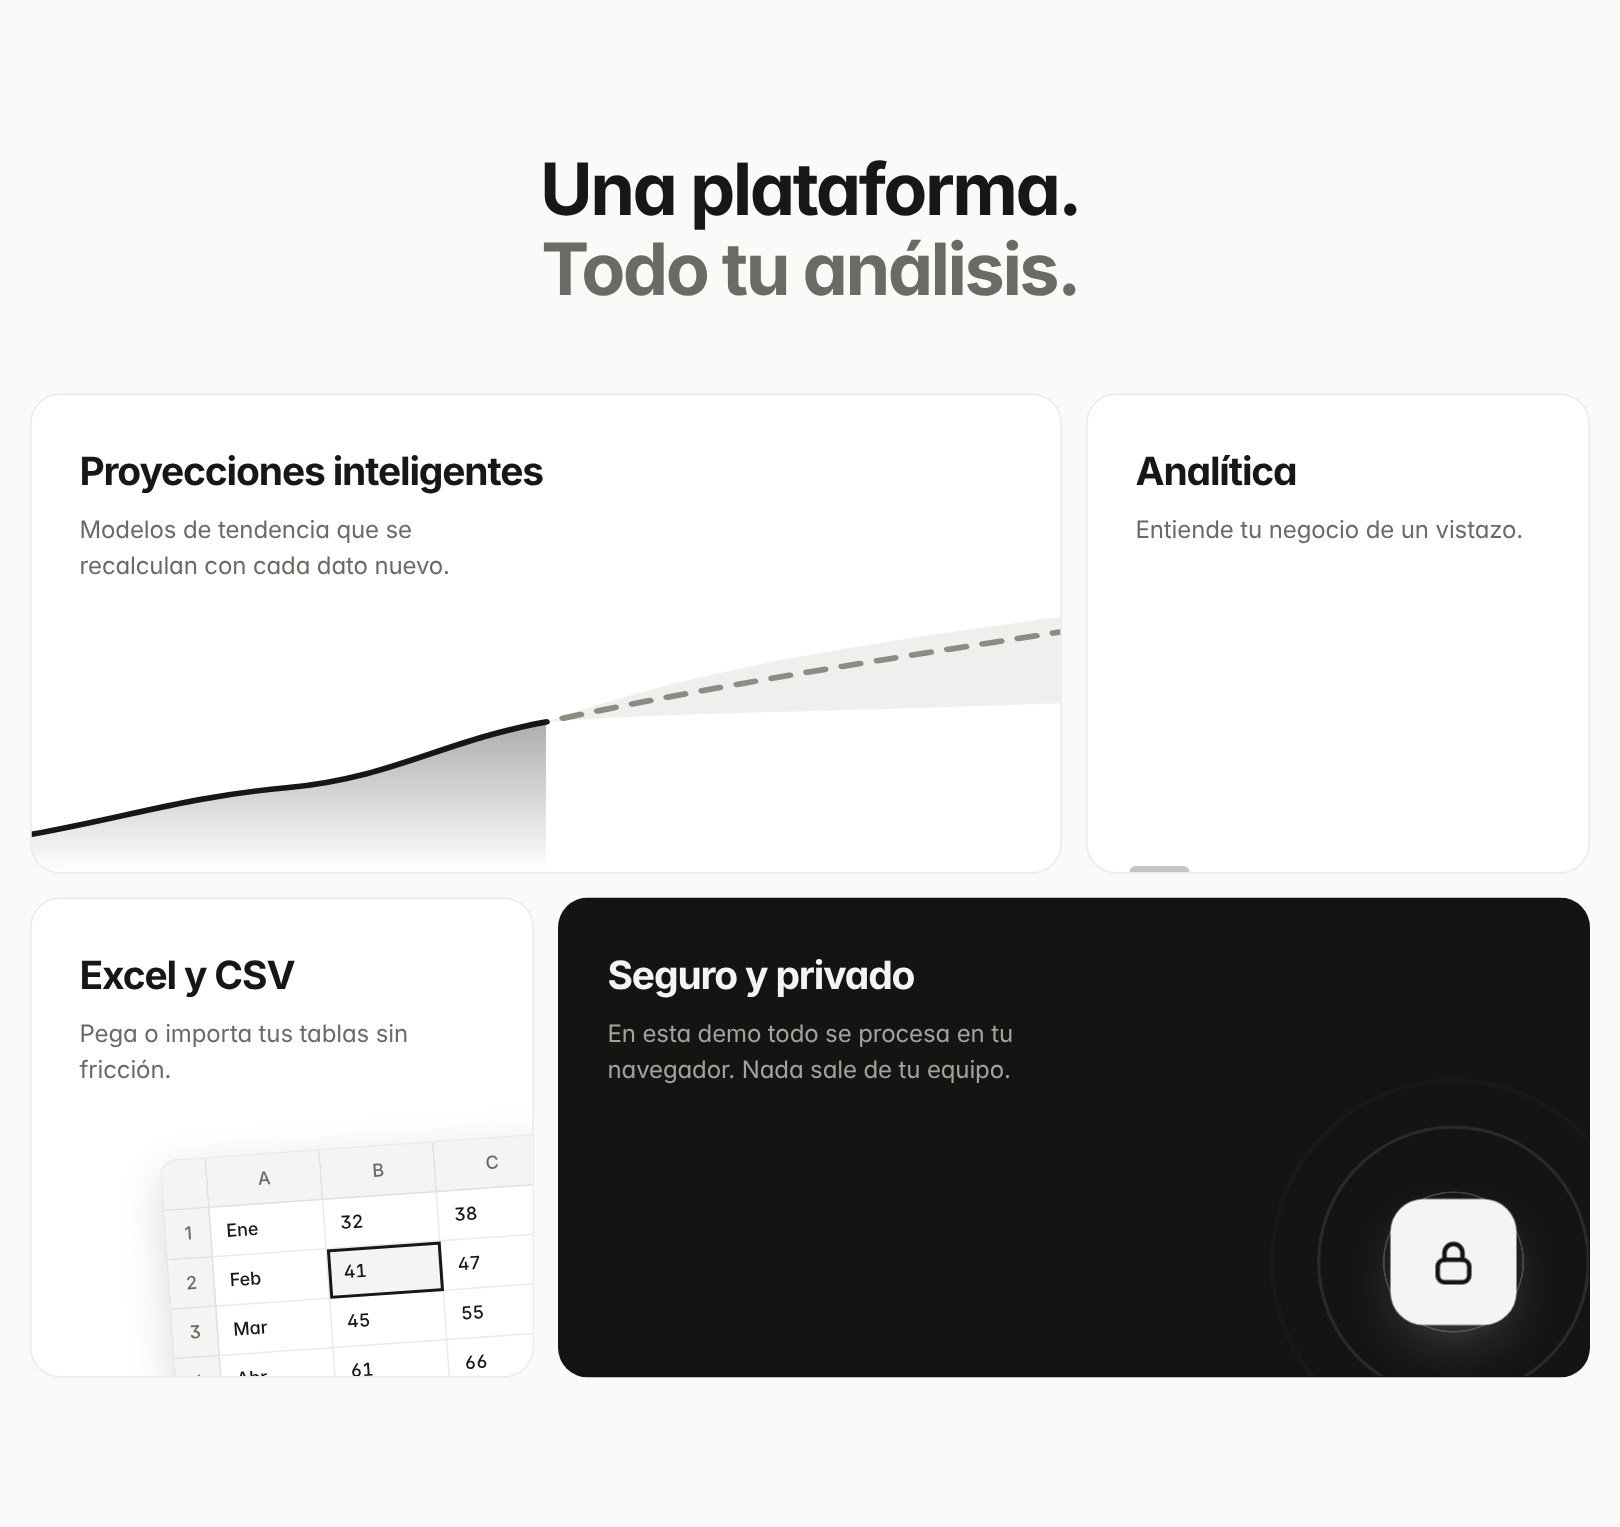
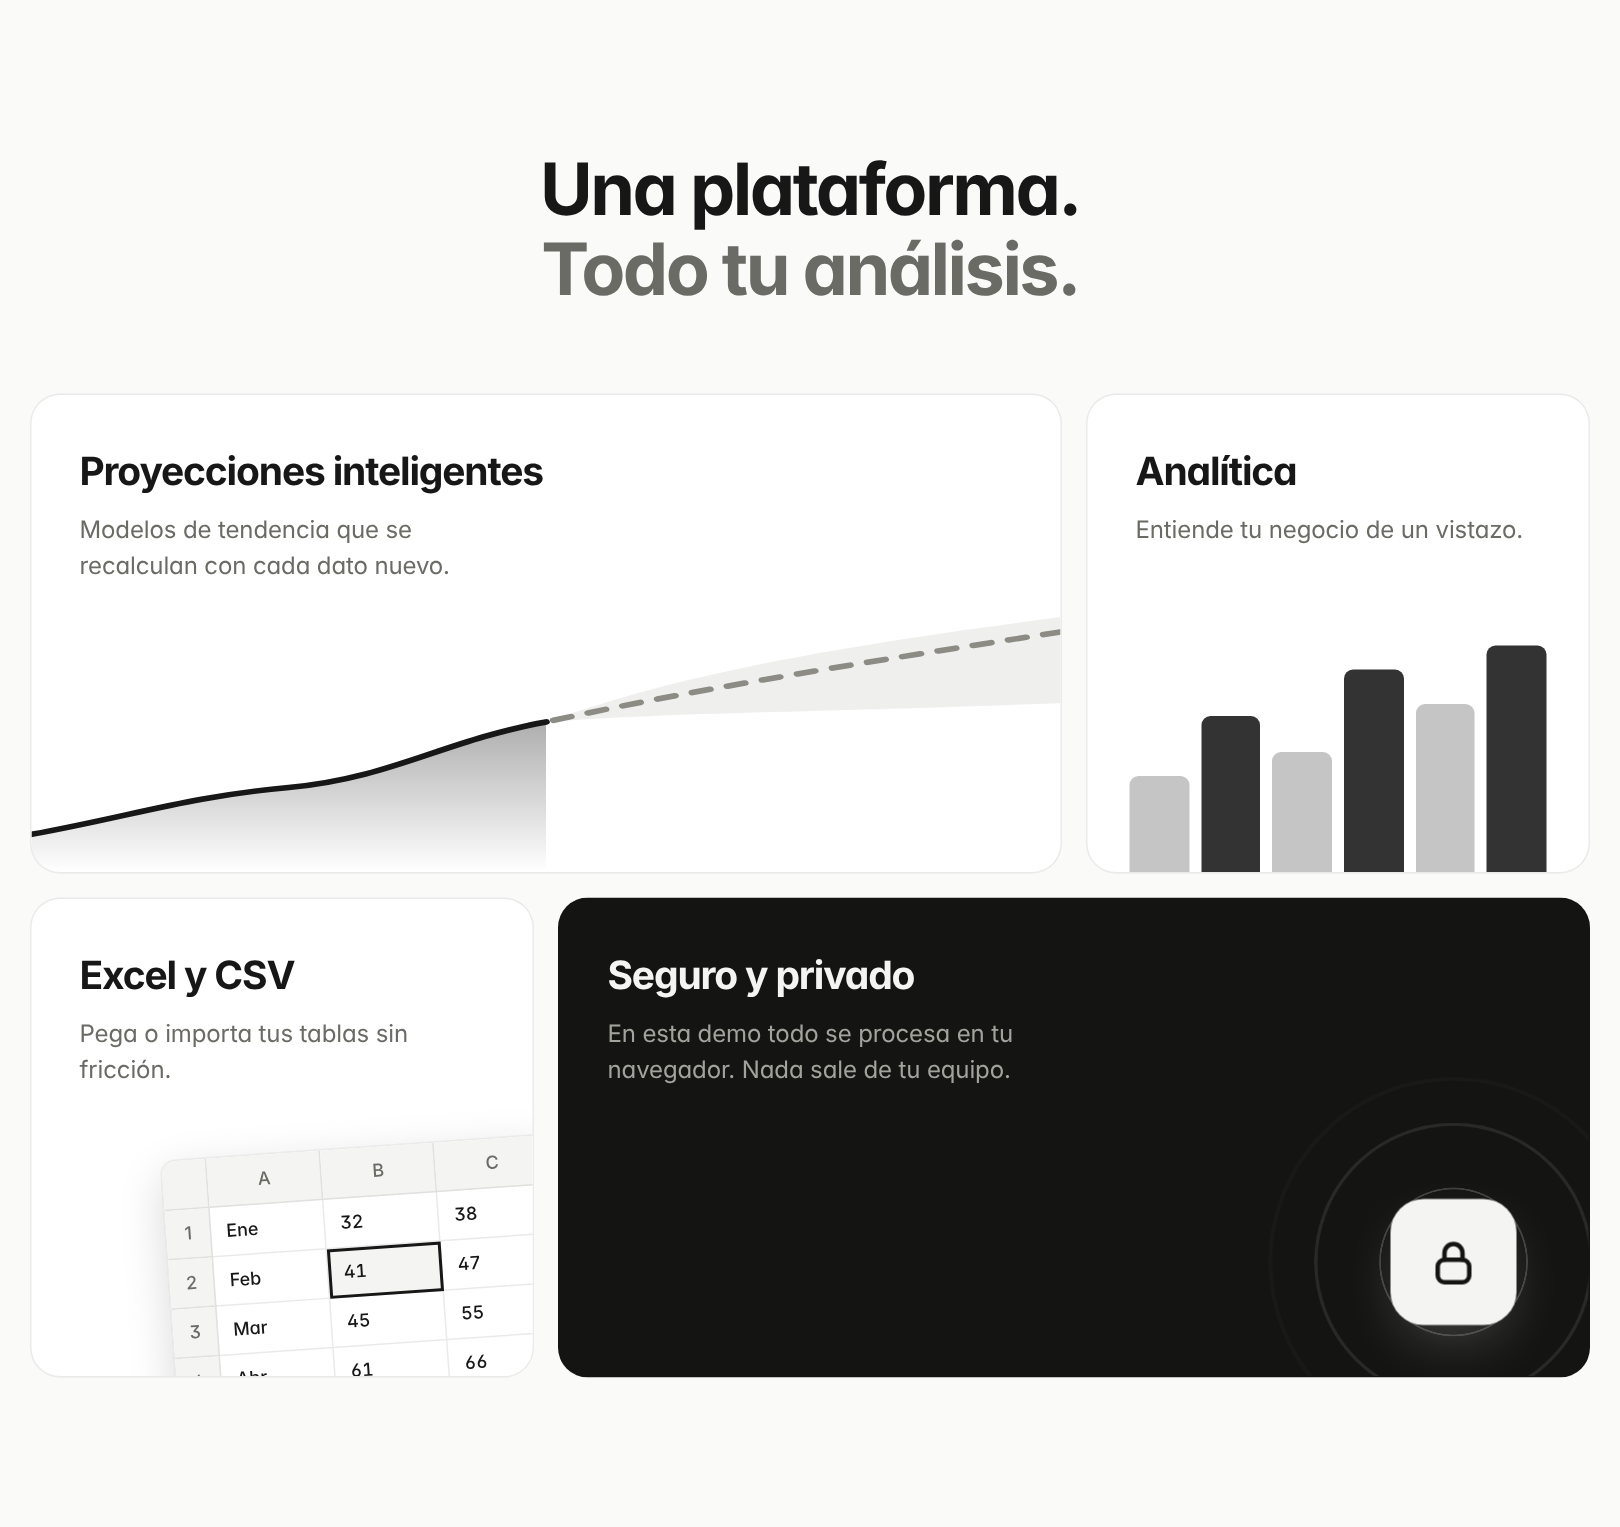
Más imágenes de referencia y corrige la etiqueta Popular recortada en precios
Claude-Session: https://claude.ai/code/session_01AeMKFSvTPsXQqaDVWXABjk

Changed region(s): [[0.679, 0.4001, 0.9568, 0.5848]]

diff --git a/styles.css b/styles.css
@@ -470,3 +470,5 @@ body{font-feature-settings:"cv11","ss01";letter-spacing:-.005em}
 .cta h2{font-weight:650}
 .footer{background:var(--bg)}
 @media (max-width:640px){.hero{padding-top:120px}.hero__trust{gap:4px 14px}}
+.plan.spot{overflow:visible}
+.plan.spot::before{border-radius:inherit}
